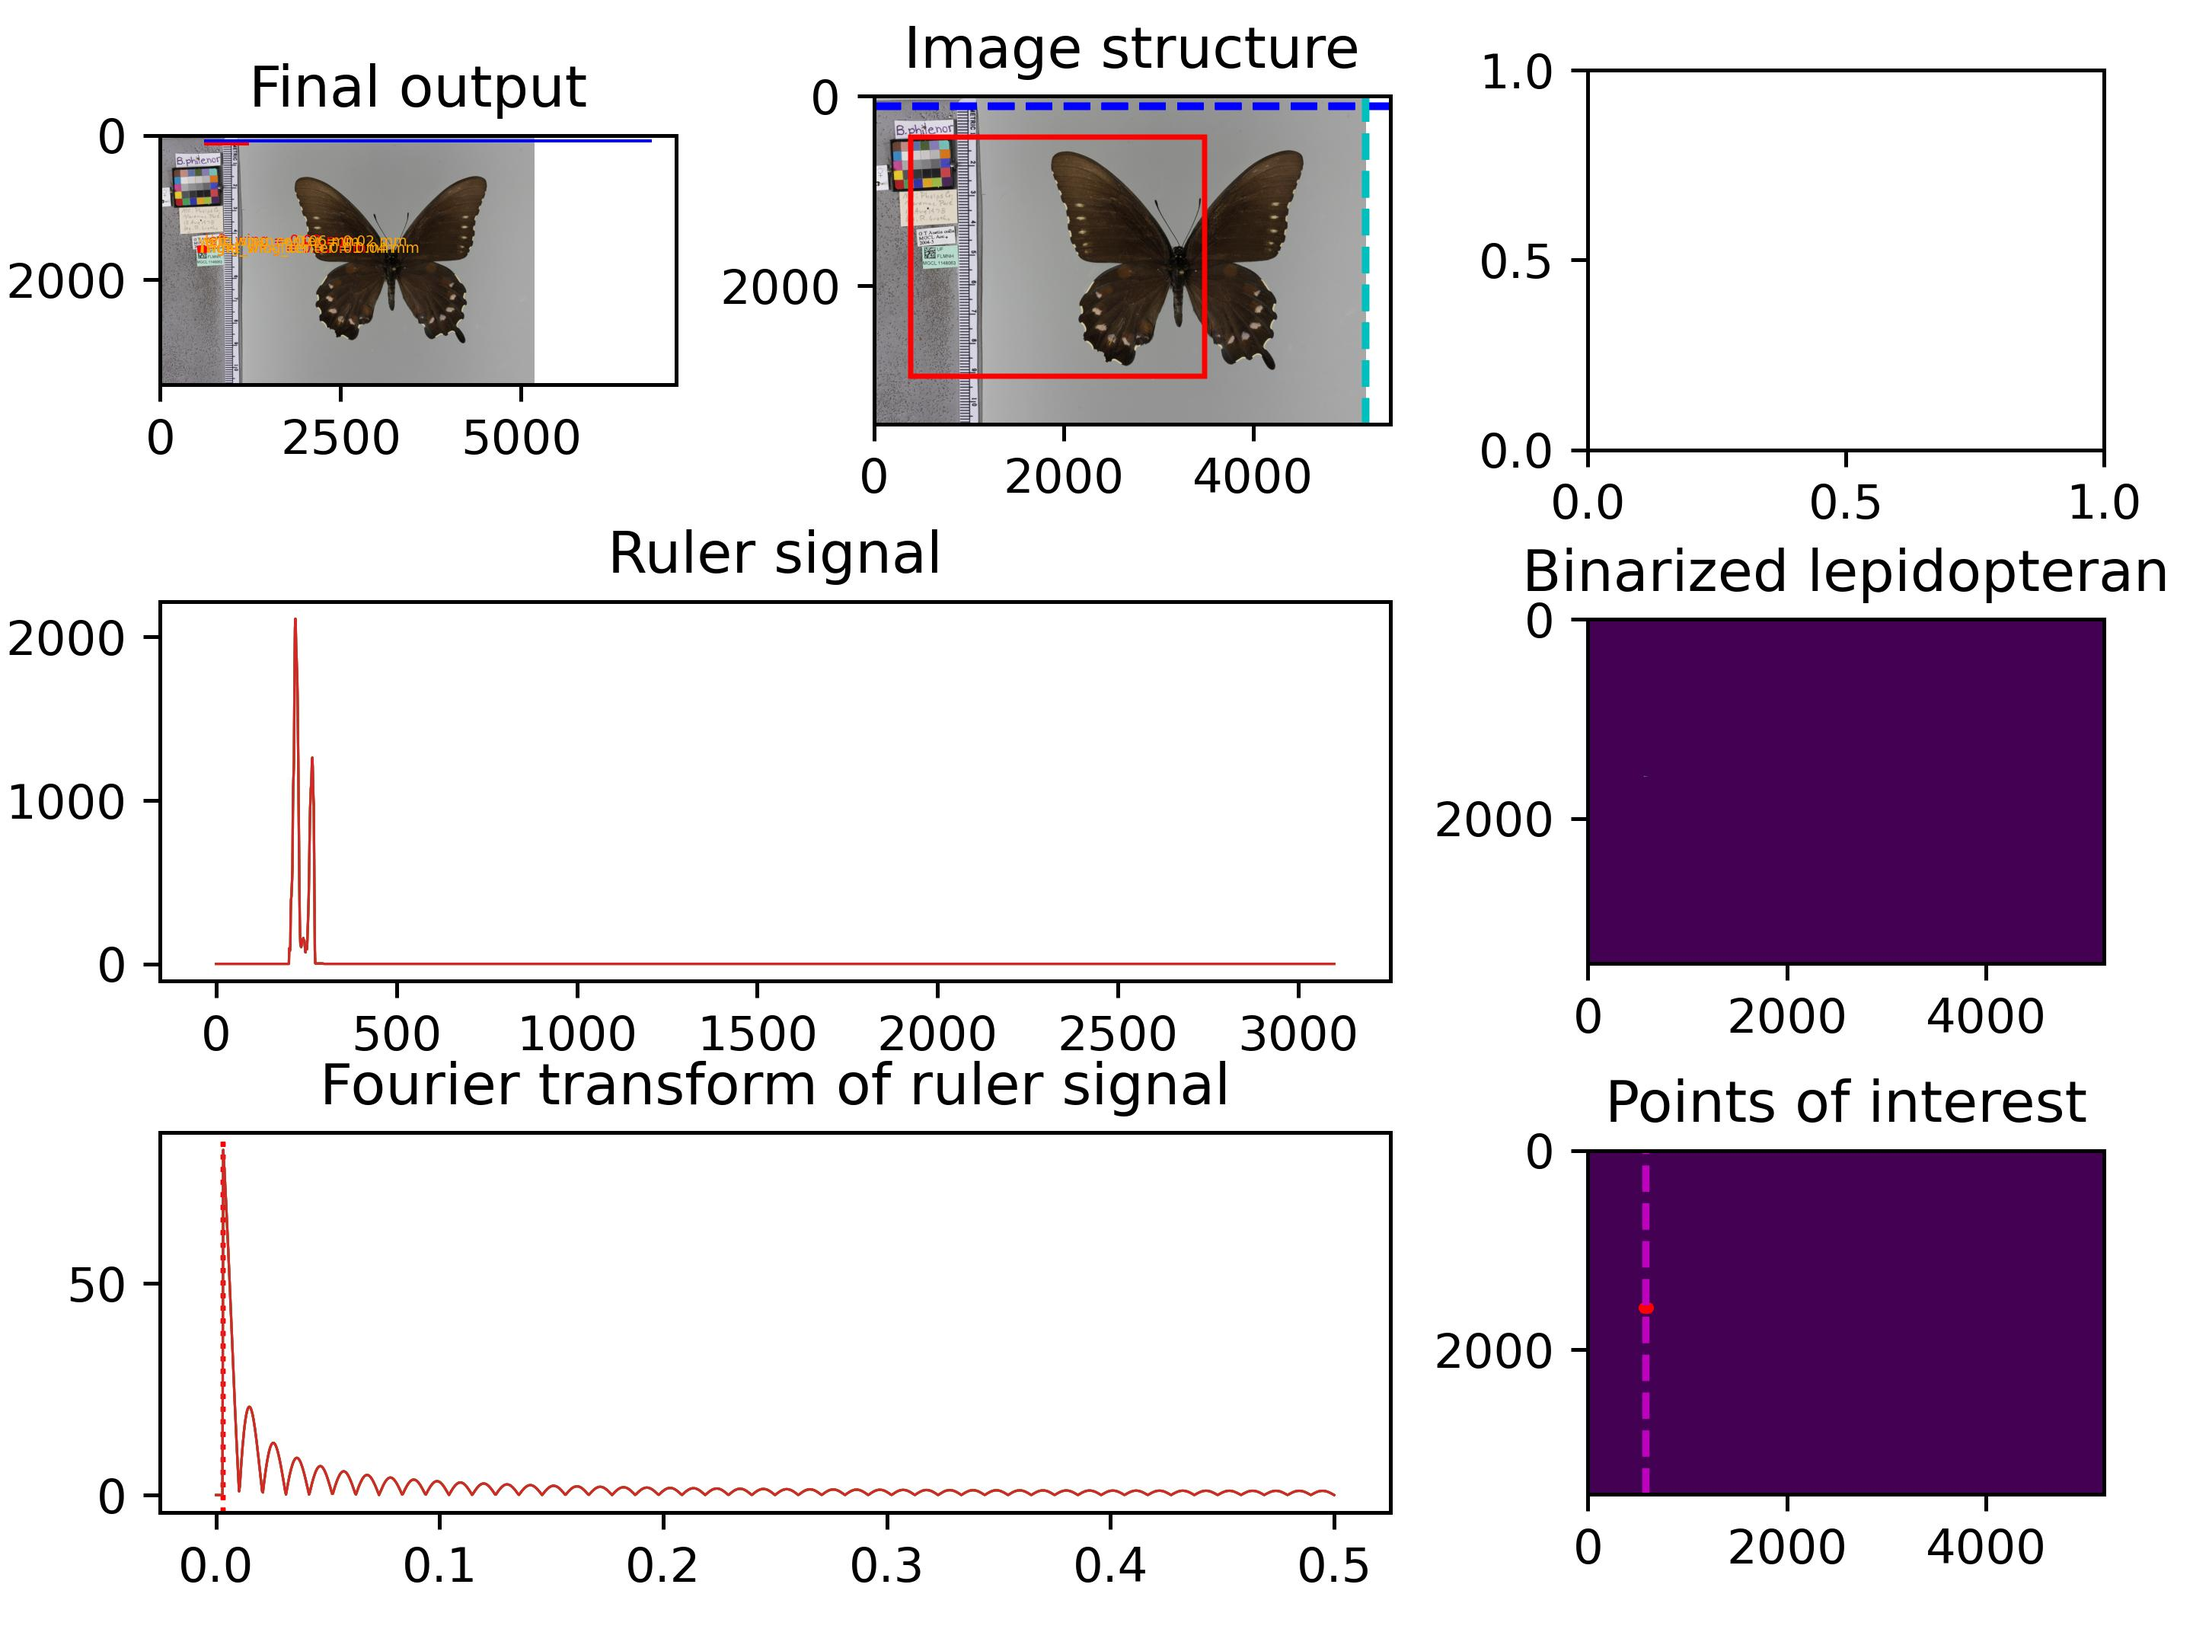
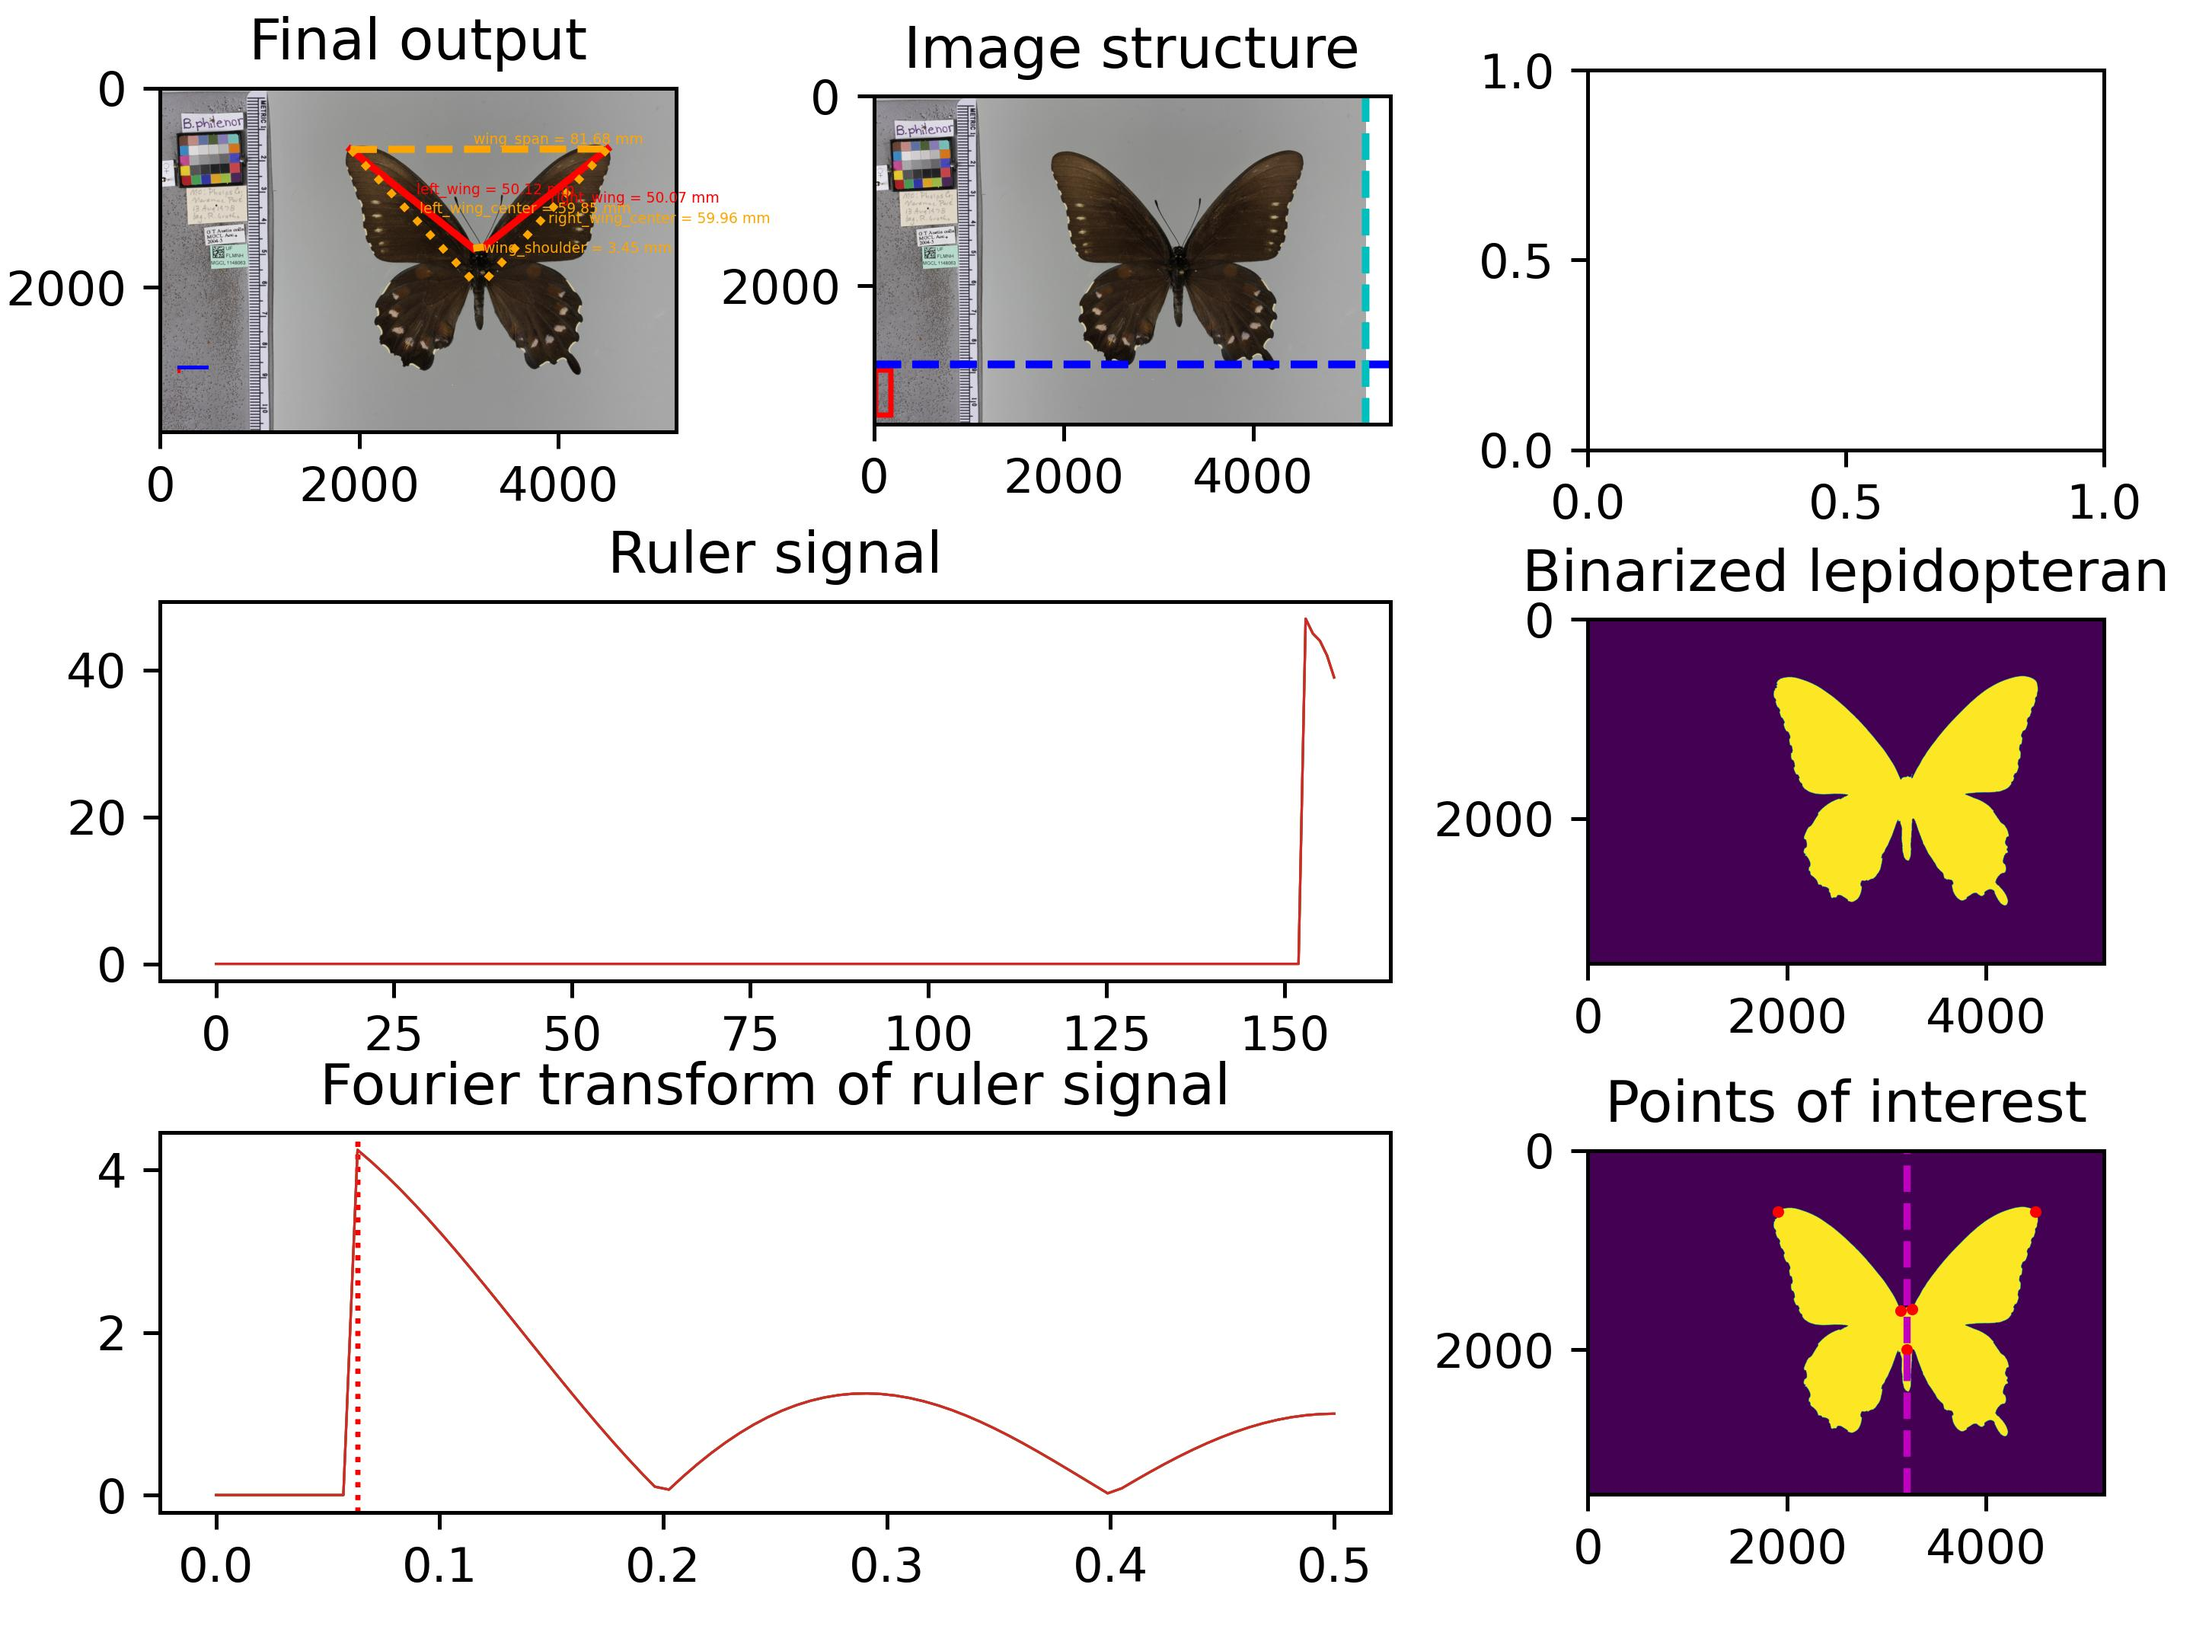
Updated the code with latest resnet18 model for binarization. Ruler still an issues!!

diff --git a/mothra/binarization.py b/mothra/binarization.py
@@ -16,7 +16,7 @@ RULER_CROP_MARGIN = 0.025
 
 # Testing weights for segmentation of four classes (background, tags, ruler,
 # lepidopteran).
-WEIGHTS_BIN = './models/battus10_segmentation_test-4classes-resnet34-b2-e10.pkl'
+WEIGHTS_BIN = './data/battus10_segmentation_test-4classes-resnet18-b2-e10.pkl'
 
 # Setting a tolerance in pixels on where ruler, tags can start, according to
 # the lepidopteran.
@@ -108,7 +108,7 @@ def binarization(image_rgb, weights=WEIGHTS_BIN):
     print("Class shape: ", classes.shape)
     print("Class Ids: ", np.unique(classes))
     
-    back_bin, tags_bin, ruler_bin, lepidop_bin = np.asarray(classes)[:4]
+    back_bin, lepidop_bin, tags_bin, ruler_bin  = np.asarray(classes)[:4]
 
     # rescale the predicted images back up and binarize them.
     back_bin = img_as_bool(_rescale_image(image_rgb, back_bin))
@@ -123,10 +123,12 @@ def binarization(image_rgb, weights=WEIGHTS_BIN):
 
     from skimage.io import imsave
     num = np.random.randint(1,10)
-    imsave('image_back_{}.png'.format(num), back_bin)
-    imsave('image_tags_{}.png'.format(num), tags_bin)
-    imsave('image_ruler_{}.png'.format(num), ruler_bin)
-    imsave('image_lepidop_{}.png'.format(num), lepidop_bin)
+    imsave('data/results/debug/{}_image_back.png'.format(num), back_bin)
+    imsave('data/results/debug/{}_image_lepidop.png'.format(num), lepidop_bin)
+    imsave('data/results/debug/{}_image_tags.png'.format(num), tags_bin)
+    imsave('data/results/debug/{}_image_ruler.png'.format(num), ruler_bin)
+    
+    
 
     return tags_bin, ruler_bin, lepidop_bin
 
